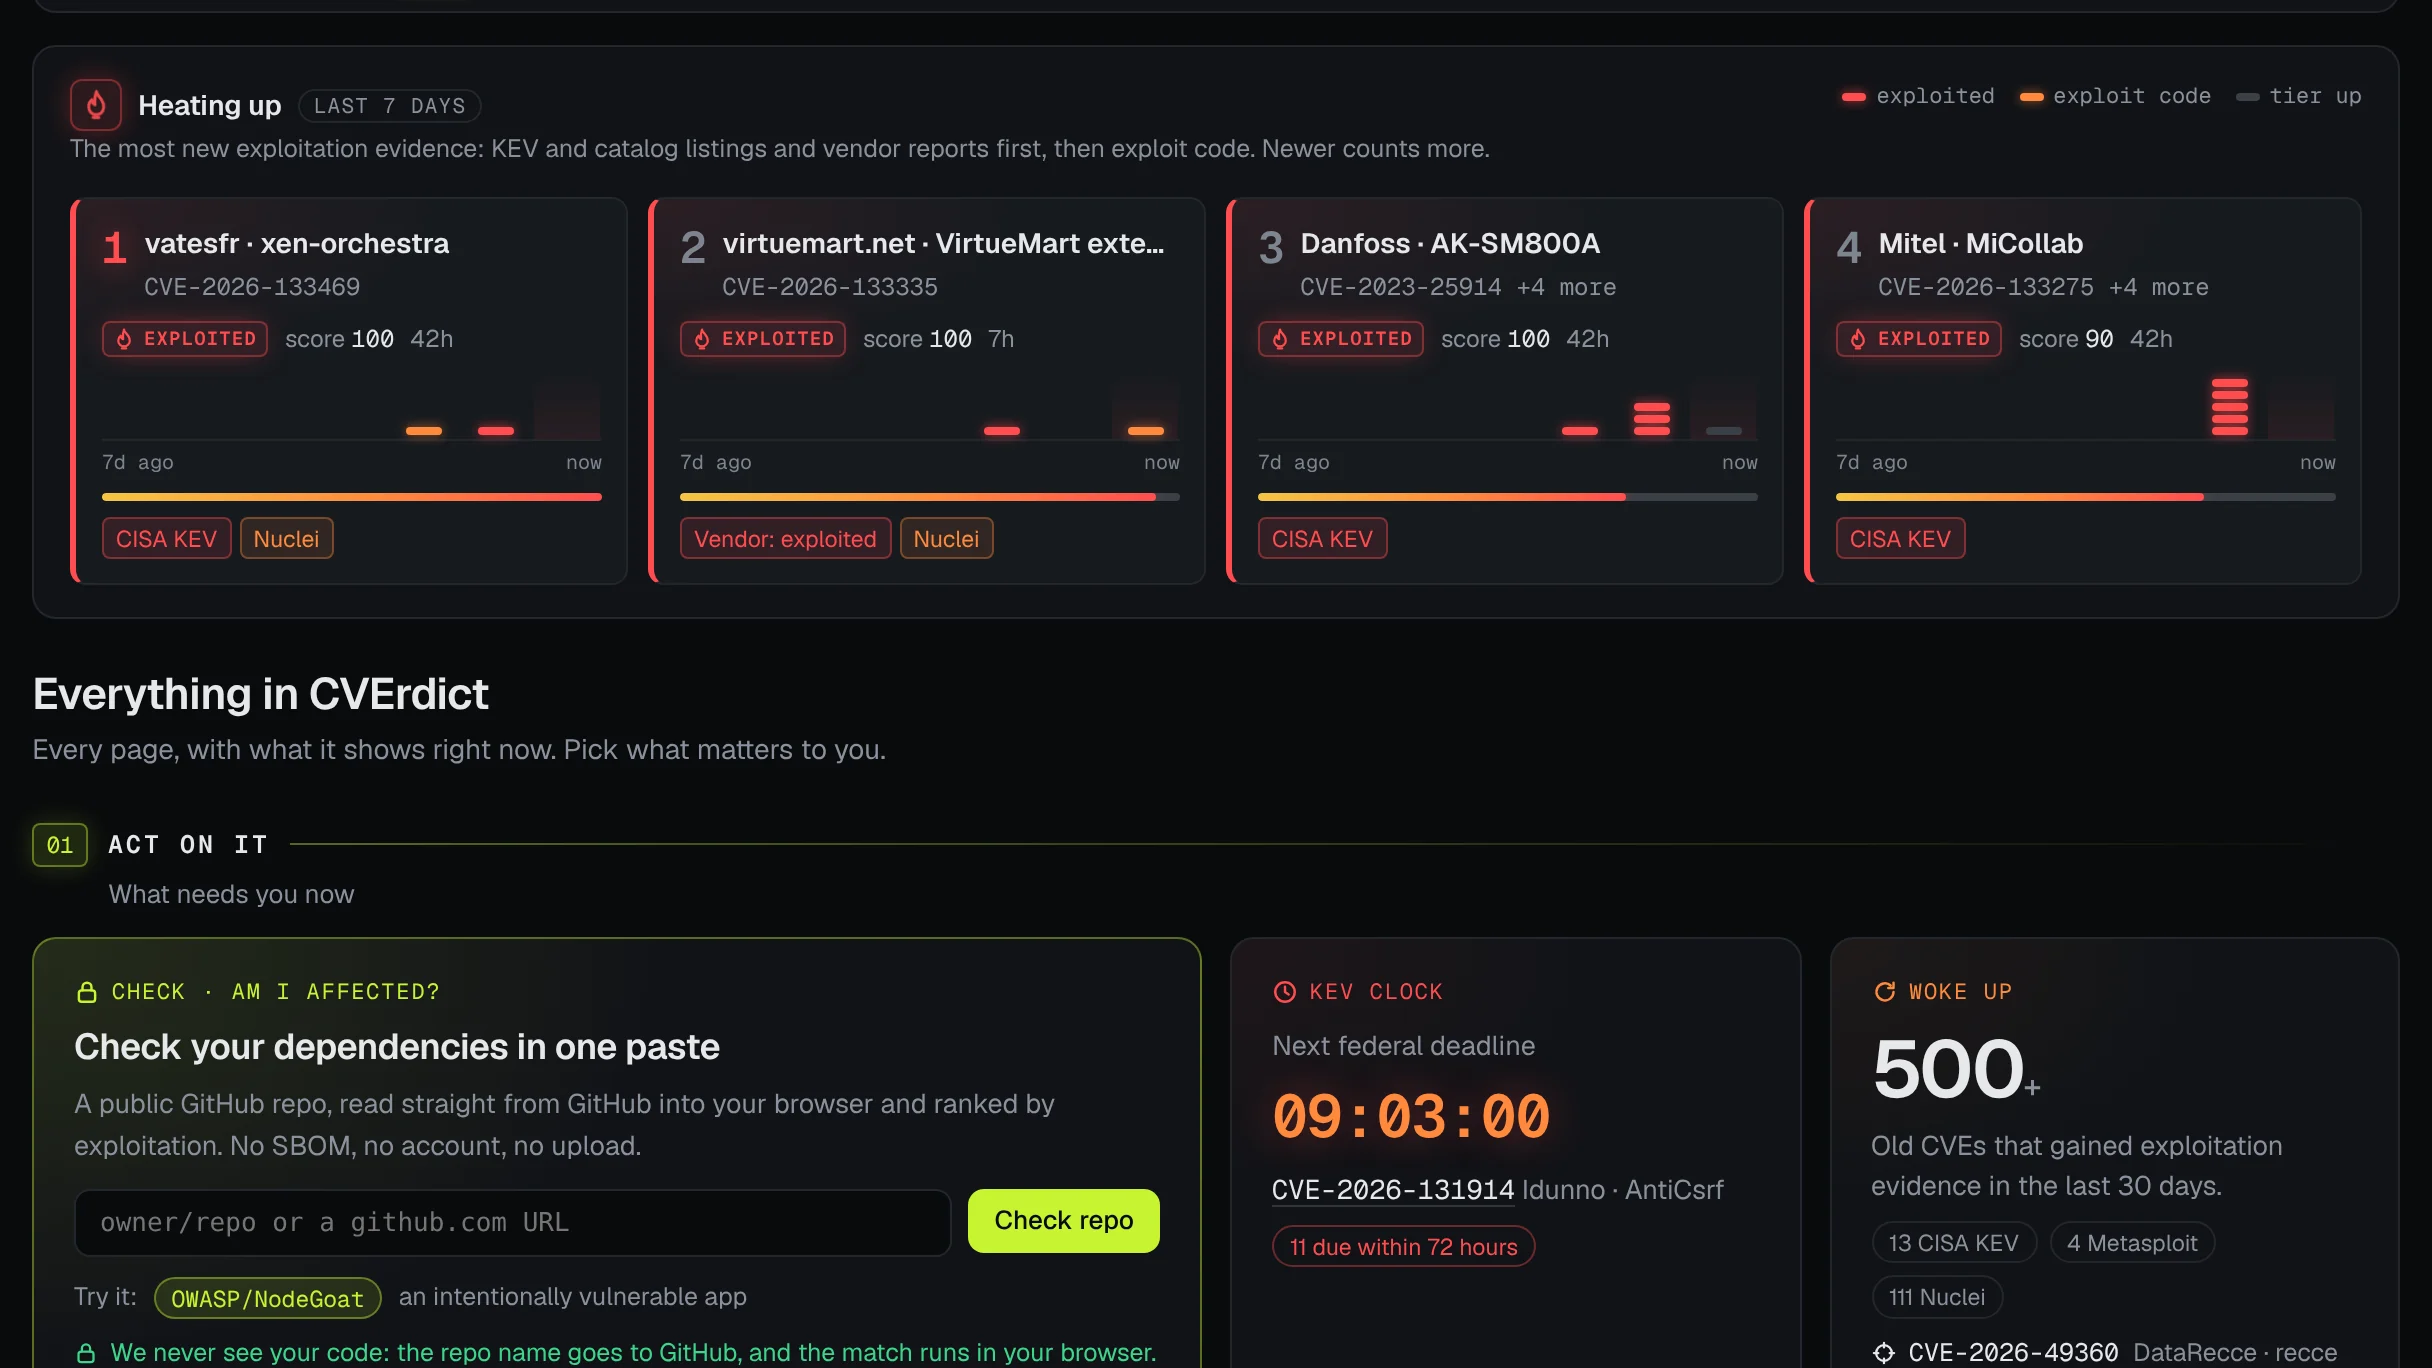
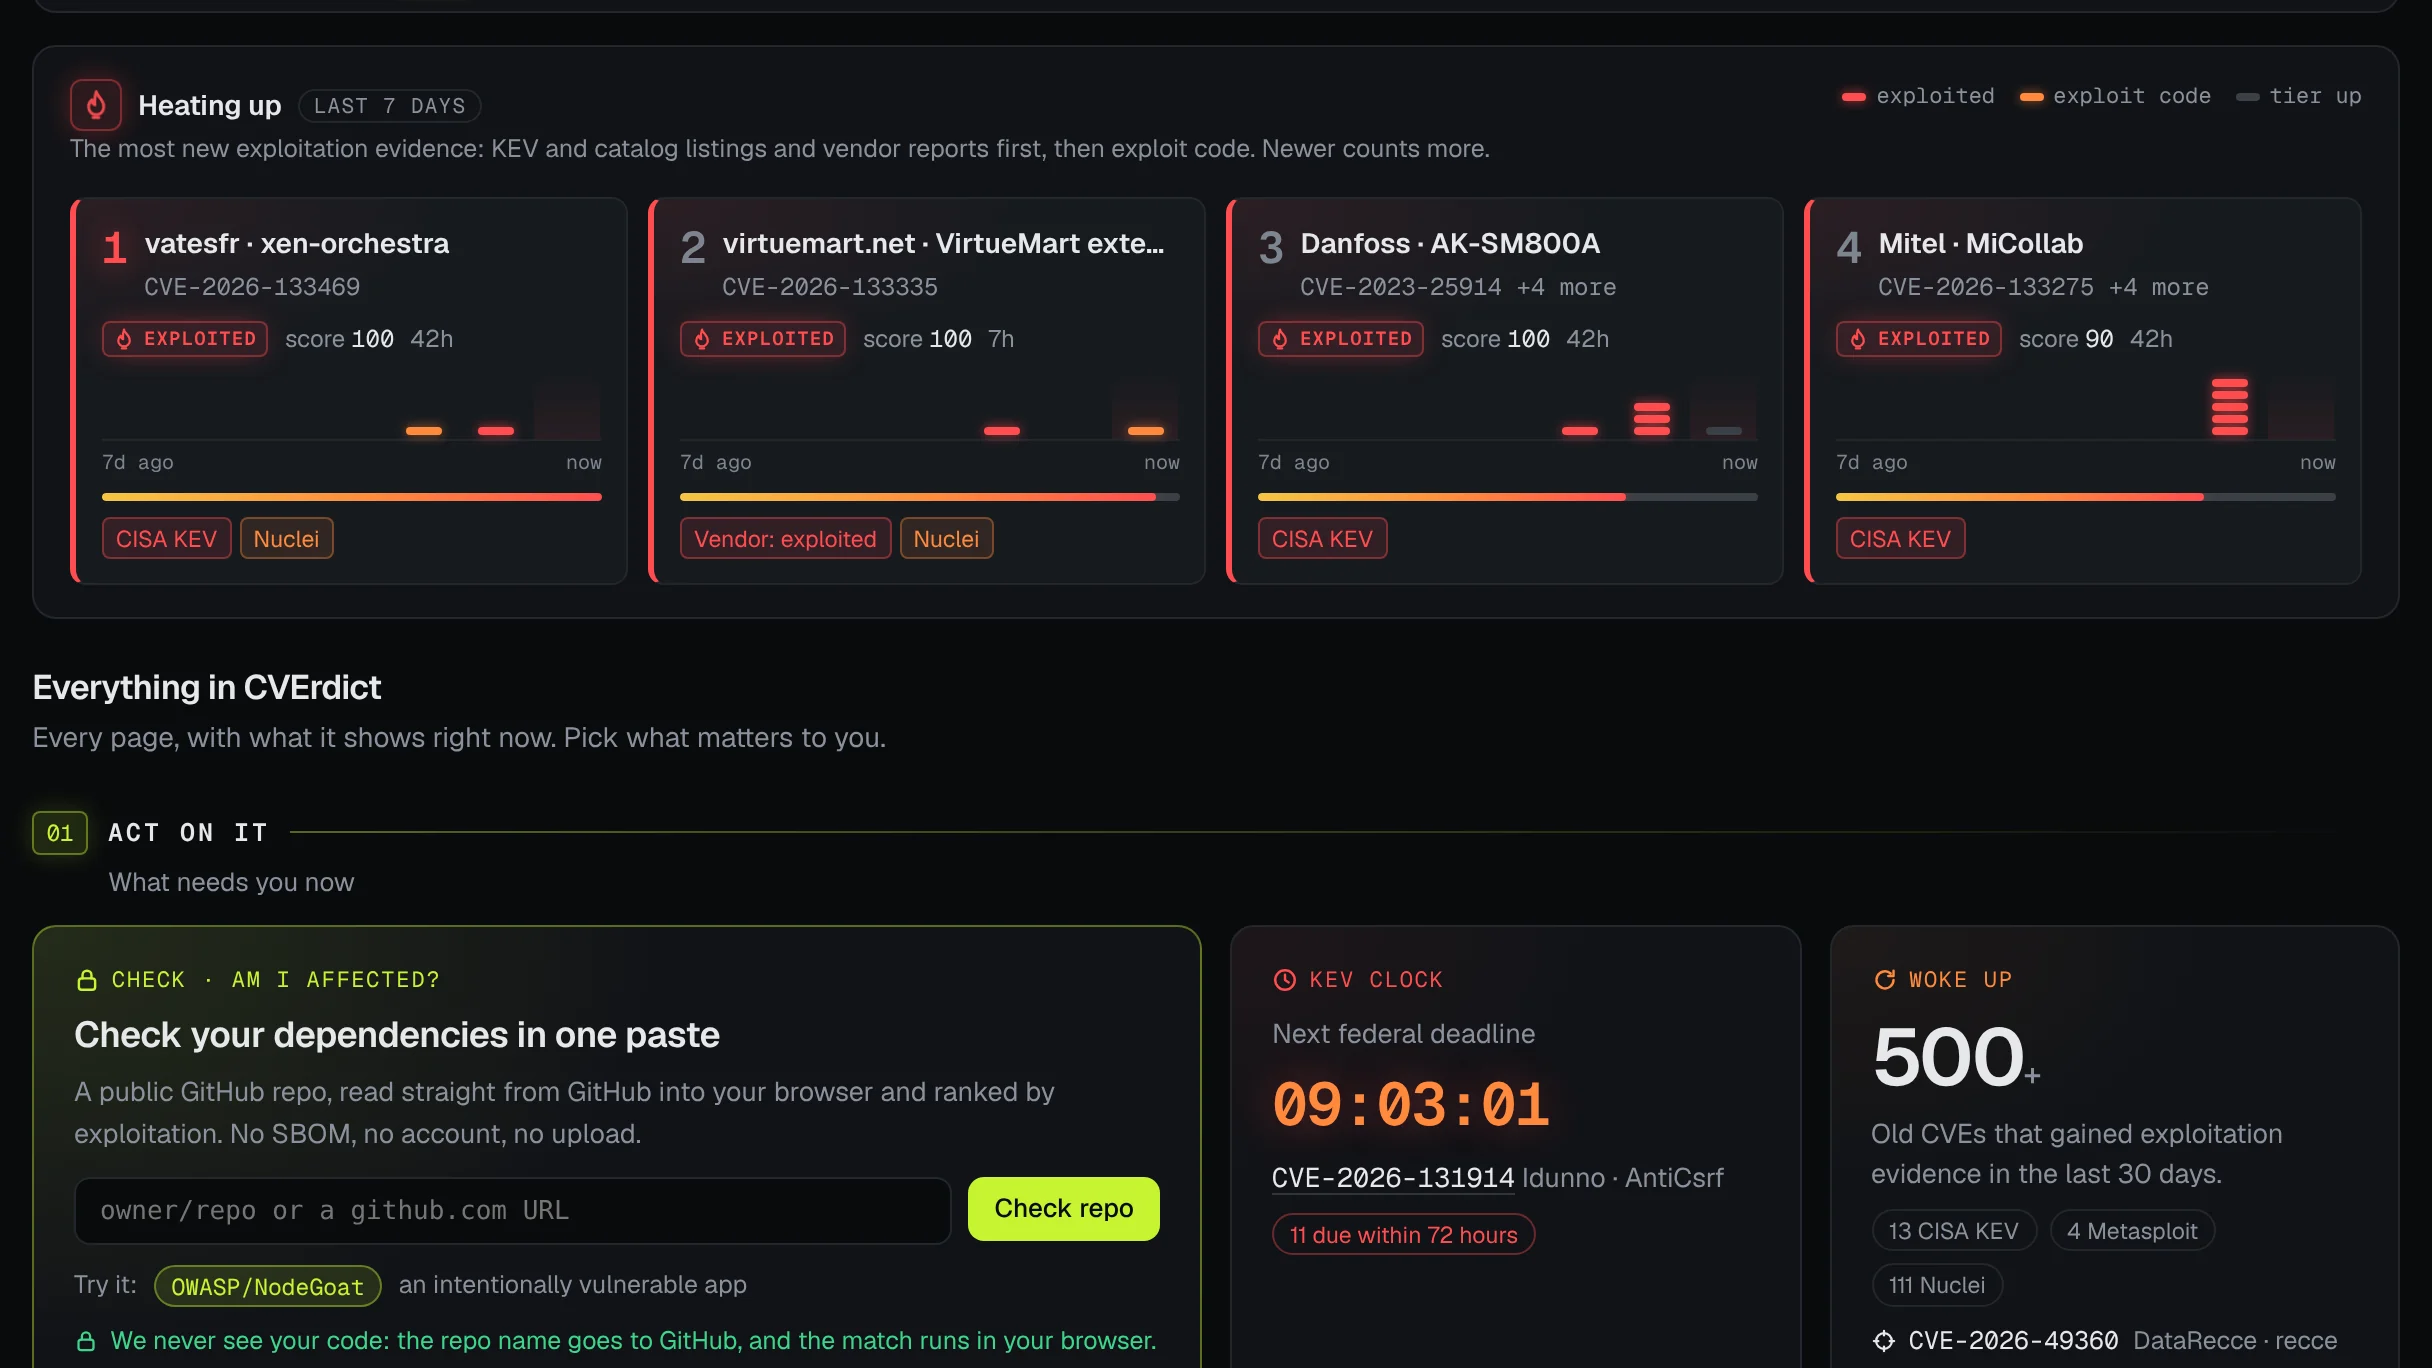
Today: one rhythm, one title size, Patch days by name
A consistency pass over the homepage:
- Spacing: 16 px between panels (the grid gap) and 24 px before every section that opens
  with a bare title: Everything in CVErdict, Signal and the side column beside it, and Patch
  days. Before: 24, 16 and 28 px (20, 12 and 20 on phones, now 20 throughout).
- Titles: the three section titles are all 17 px (Everything in CVErdict was 22).
- Names: the bottom section is Patch days, "largest batches in 30 days", as in the nav; its
  lone icon goes, as no other section title has one. The ticker keeps "Batches this week",
  as it counts batches.

README: the Heating up screenshot, which shows the section title under it.

Claude-Session: https://claude.ai/code/session_014y4cbadidDdMh4wQrQPiJw

diff --git a/site/src/pages/Today.tsx b/site/src/pages/Today.tsx
@@ -9,7 +9,7 @@ import { freshness } from '../components/Chrome';
 import { FilterBar } from '../components/FilterBar';
 import { HeatStrip } from '../components/HeatStrip';
 import { Tour } from '../components/Tour';
-import { IconArrowRight, IconLayers } from '../components/icons';
+import { IconArrowRight } from '../components/icons';
 import { kevUrgency, KevStrip } from '../components/Kev';
 import { Knob } from '../components/Knob';
 import { NewExploitedLegend } from '../components/NewExploited';
@@ -622,7 +622,7 @@ export default function Today() {
         <section class="today__batches" aria-labelledby="bat-h">
           <header class="section__head">
             <h2 id="bat-h" class="section__title">
-              <IconLayers size={16} /> Batches <span class="section__count">largest in {meta.status === 'ready' ? meta.data.window.days : 30} days</span>
+              Patch days <span class="section__count">largest batches in {meta.status === 'ready' ? meta.data.window.days : 30} days</span>
             </h2>
             <a class="section__more" href={href('batches')}>
               All {batches.status === 'ready' ? plural(batches.data.batches.length, 'batch', 'batches') : 'batches'} <IconArrowRight size={12} />

diff --git a/site/src/styles/pages.css b/site/src/styles/pages.css
@@ -408,7 +408,15 @@
 
 .today__batches {
   grid-area: batches;
-  margin-top: 12px;
+}
+
+/* One rhythm on Today: 16 px between panels (the grid gap), 24 px before a section that opens
+   with a bare title (Everything in CVErdict, Signal and the side column beside it, Patch days). */
+.today__grid > .tour,
+.today__grid > .today__feed,
+.today__grid > .today__side,
+.today__grid > .today__batches {
+  margin-top: 8px;
 }
 
 .hero {
@@ -4356,17 +4364,11 @@ circle.dc__kev {
   display: grid;
   gap: 26px;
   min-width: 0;
-  margin-top: 8px;
 }
 
 .tour__head {
   display: grid;
   gap: 4px;
-}
-
-.tour__head .section__title {
-  font-size: 22px;
-  letter-spacing: -0.015em;
 }
 
 .tour__sub {
